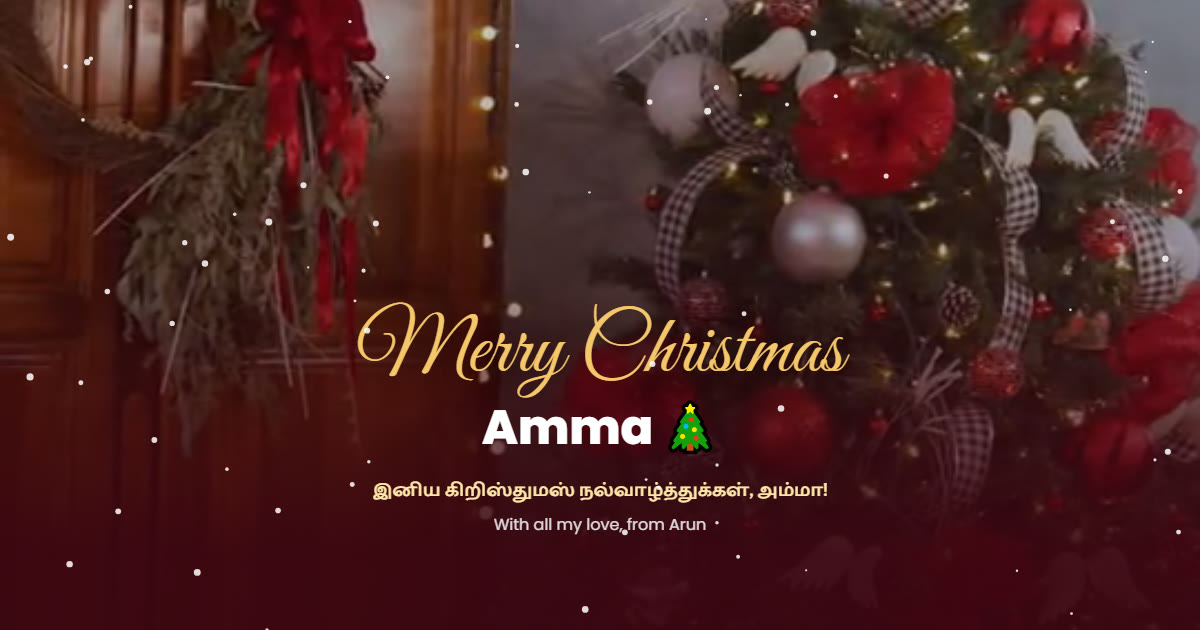
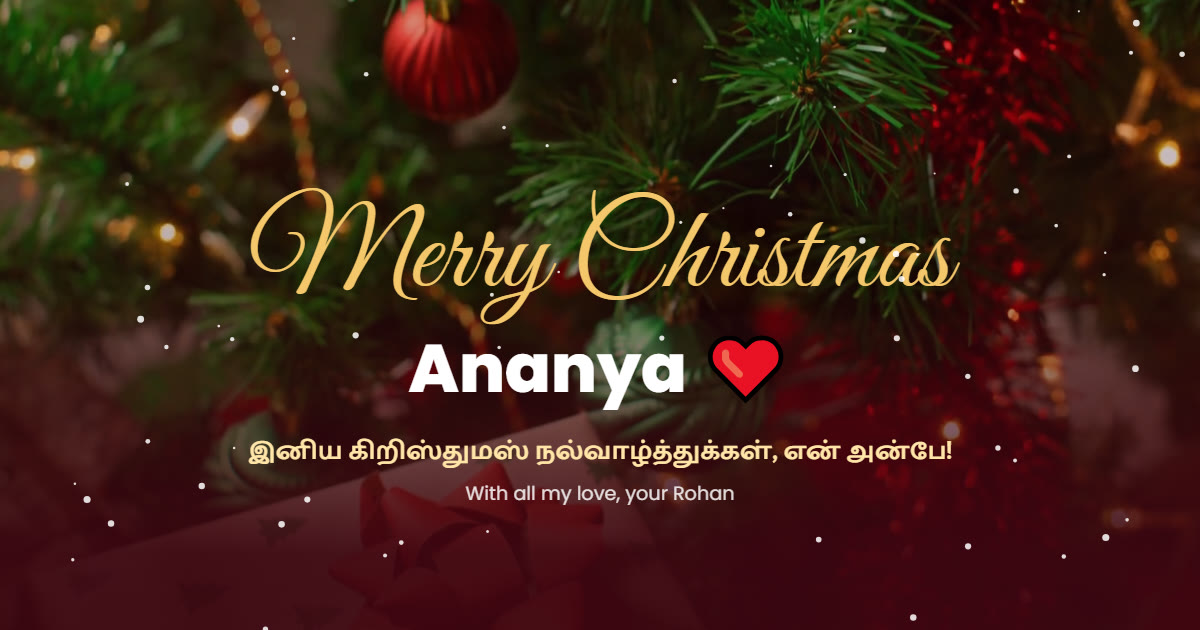
Couple wish with HD photos and a gallery
All 3 demos are now couple wishes: new HD couple photos (Mixkit free
licence) in the memories section, a new 6-photo HD gallery, updated
letters and text, and a fresh share image. Removed the old family
photos.

diff --git a/index.html b/index.html
@@ -3,13 +3,13 @@
 <head>
 <meta charset="utf-8">
 <meta name="viewport" content="width=device-width, initial-scale=1, viewport-fit=cover">
-<title>Merry Christmas, Amma 🎄</title>
-<meta name="description" content="A Christmas surprise for Amma, with love from Arun. Tap to open your gift.">
+<title>Merry Christmas, Ananya ❤</title>
+<meta name="description" content="A Christmas surprise for Ananya, with love from Rohan. Tap to open your gift.">
 <meta name="robots" content="noindex, nofollow">
 <meta name="theme-color" content="#7a0f24">
 <meta property="og:type" content="website">
-<meta property="og:title" content="Merry Christmas, Amma 🎄">
-<meta property="og:description" content="A Christmas surprise for Amma, with love from Arun. Tap to open your gift.">
+<meta property="og:title" content="Merry Christmas, Ananya ❤">
+<meta property="og:description" content="A Christmas surprise for Ananya, with love from Rohan. Tap to open your gift.">
 <meta property="og:url" content="https://raymelz75.github.io/christmas-wish/">
 <meta property="og:image" content="https://raymelz75.github.io/christmas-wish/images/og.jpg">
 <meta property="og:image:width" content="1200">
@@ -147,7 +147,7 @@ section{position:relative;padding:84px 0;overflow:hidden}
 <div id="intro" role="button" tabindex="0" aria-label="Open your Christmas gift">
   <div>
     <p class="small">A Christmas gift for</p>
-    <p class="name script">Amma</p>
+    <p class="name script">Ananya</p>
     <div class="gift" aria-hidden="true"><div class="box"></div><div class="lid"></div><div class="rib-v"></div><div class="bow"></div></div>
     <span class="tap">🎁 Tap the gift to open</span>
   </div>
@@ -158,31 +158,36 @@ section{position:relative;padding:84px 0;overflow:hidden}
   <div class="shade"></div>
   <div class="wrap">
     <h1 class="script">Merry Christmas</h1>
-    <p class="who">Amma 🎄</p>
-    <p class="ta">இனிய கிறிஸ்துமஸ் நல்வாழ்த்துக்கள், அம்மா!</p>
-    <p class="from">With all my love, from Arun</p>
+    <p class="who">Ananya ❤</p>
+    <p class="ta">இனிய கிறிஸ்துமஸ் நல்வாழ்த்துக்கள், என் அன்பே!</p>
+    <p class="from">With all my love, your Rohan</p>
   </div>
   <span class="hint">Scroll ↓</span>
 </section>
 <section id="letter"><div class="wrap">
   <h2 class="sec rv">A little letter for you</h2>
   <p class="sub rv">From my heart to yours</p>
-  <div class="letter" data-text="Dear Amma,&#10;&#10;Every Christmas, you made our small home the brightest place in the world. The star on the tree, the smell of your plum cake, and your midnight prayers for all of us.&#10;&#10;This year, I just want to say thank you. For every sacrifice you never talked about, and every hug when I needed it most.&#10;&#10;Merry Christmas, Amma. You are my biggest gift. 🎄&#10;&#10;With love,&#10;Arun"><p class="typed"></p><small>Tap to read it all</small></div>
+  <div class="letter" data-text="My dear Ananya,&#10;&#10;This Christmas, the best gift under my tree is you.&#10;&#10;Thank you for the warm hugs on cold nights, for laughing at my silly jokes, and for making every ordinary day feel like a celebration.&#10;&#10;I can't wait to make more memories with you: more cozy movie nights, more hot chocolate dates and more dancing in the living room.&#10;&#10;Merry Christmas, my love. 🎄❤&#10;&#10;Forever yours,&#10;Rohan"><p class="typed"></p><small>Tap to read it all</small></div>
 </div></section>
 <section id="memories"><div class="wrap">
   <h2 class="sec rv">Our Christmas memories</h2>
   <p class="sub rv">Tap a photo to see it bigger</p>
-  <div class="polaroids"><figure class="pol rv"><img src="images/amma-1.webp" alt="Amma hugging her son" width="640" height="800" loading="lazy"><figcaption>Your hugs 🤗</figcaption></figure><figure class="pol rv"><img src="images/amma-2.webp" alt="Amma smiling with a little child" width="640" height="800" loading="lazy"><figcaption>Always smiling 😊</figcaption></figure><figure class="pol rv"><img src="images/xmas-1.webp" alt="Christmas gift under the tree" width="640" height="800" loading="lazy"><figcaption>Gifts under our tree 🎁</figcaption></figure><figure class="pol rv"><img src="images/xmas-2.webp" alt="Presents beside the Christmas tree" width="640" height="800" loading="lazy"><figcaption>Christmas Eve ✨</figcaption></figure></div>
+  <div class="polaroids"><figure class="pol rv"><img src="images/love-1.webp" alt="Couple dancing by the Christmas tree" width="640" height="800" loading="lazy"><figcaption>Dancing by our tree 🎄</figcaption></figure><figure class="pol rv"><img src="images/love-2.webp" alt="Couple hugging by the window" width="640" height="800" loading="lazy"><figcaption>Your warm hugs 🤗</figcaption></figure><figure class="pol rv"><img src="images/love-3.webp" alt="Couple embracing under fairy lights" width="640" height="800" loading="lazy"><figcaption>Under the fairy lights ✨</figcaption></figure><figure class="pol rv"><img src="images/love-4.webp" alt="Couple dancing happily at home" width="640" height="800" loading="lazy"><figcaption>Silly dances at home 💃</figcaption></figure></div>
 </div></section>
-
+<section id="gallery"><div class="wrap">
+  <h2 class="sec rv">Christmas moments 📸</h2>
+  <p class="sub rv">A little more Christmas magic</p>
+  <div class="gallery"><figure class="rv"><img src="images/gallery-1.webp" data-full="images/gallery-1.webp" alt="Couple looking at their photo album" width="1600" height="900" loading="lazy"></figure><figure class="rv"><img src="images/gallery-2.webp" data-full="images/gallery-2.webp" alt="Couple decorating the Christmas tree" width="900" height="1600" loading="lazy"></figure><figure class="rv"><img src="images/gallery-3.webp" data-full="images/gallery-3.webp" alt="Boyfriend keeping his girlfriend warm on a cold night" width="1600" height="900" loading="lazy"></figure><figure class="rv"><img src="images/gallery-4.webp" data-full="images/gallery-4.webp" alt="Twinkling Christmas tree with gifts in the living room" width="1280" height="720" loading="lazy"></figure><figure class="rv"><img src="images/gallery-5.webp" data-full="images/gallery-5.webp" alt="A wrapped gift under the Christmas tree" width="1600" height="900" loading="lazy"></figure><figure class="rv"><img src="images/gallery-6.webp" data-full="images/gallery-6.webp" alt="Christmas gifts with twinkling lights" width="900" height="1600" loading="lazy"></figure></div>
+  <p class="credit">Photos: Mixkit (free licence)</p>
+</div></section>
 <section id="thanks"><div class="wrap">
-  <h2 class="sec rv">What I'm thankful for this Christmas</h2>
-  <p class="sub rv">All of it is you, Amma</p>
+  <h2 class="sec rv">Why Christmas is better with you</h2>
+  <p class="sub rv">Every reason is you, Ananya</p>
   <div class="tags">
-    <div class="tag rv"><b>🙏</b>Your prayers for me</div>
-    <div class="tag rv"><b>🎂</b>Your plum cake</div>
-    <div class="tag rv"><b>😅</b>Your patience with me</div>
-    <div class="tag rv"><b>❤</b>Your warm smile</div>
+    <div class="tag rv"><b>🤗</b>Your warm hugs</div>
+    <div class="tag rv"><b>☕</b>Our hot chocolate dates</div>
+    <div class="tag rv"><b>🎄</b>Decorating the tree together</div>
+    <div class="tag rv"><b>❤</b>Your beautiful smile</div>
   </div>
 </div></section>
 <section id="final"><div class="wrap">
@@ -201,13 +206,13 @@ section{position:relative;padding:84px 0;overflow:hidden}
   <circle class="fw-snow" cx="248.7" cy="-6" r="2" fill="#fff" style="animation-duration:7.3s;animation-delay:-2.9s"/><circle class="fw-snow" cx="316.4" cy="-6" r="2.4" fill="#fff" style="animation-duration:6s;animation-delay:-1.8s"/><circle class="fw-snow" cx="36.2" cy="-6" r="3" fill="#fff" style="animation-duration:7.5s;animation-delay:-2.1s"/><circle class="fw-snow" cx="272.7" cy="-6" r="2.1" fill="#fff" style="animation-duration:7.4s;animation-delay:-3.5s"/><circle class="fw-snow" cx="0.3" cy="-6" r="1.4" fill="#fff" style="animation-duration:4.1s;animation-delay:-4.5s"/><circle class="fw-snow" cx="106.4" cy="-6" r="3" fill="#fff" style="animation-duration:5.3s;animation-delay:-5.1s"/><circle class="fw-snow" cx="356.3" cy="-6" r="2.4" fill="#fff" style="animation-duration:7s;animation-delay:-1.4s"/><circle class="fw-snow" cx="235.3" cy="-6" r="2.4" fill="#fff" style="animation-duration:5s;animation-delay:-2.1s"/><circle class="fw-snow" cx="179" cy="-6" r="2.6" fill="#fff" style="animation-duration:5.8s;animation-delay:-2.4s"/><circle class="fw-snow" cx="176.8" cy="-6" r="2.4" fill="#fff" style="animation-duration:4.5s;animation-delay:-5s"/><circle class="fw-snow" cx="293.9" cy="-6" r="2.4" fill="#fff" style="animation-duration:6.2s;animation-delay:-1.7s"/><circle class="fw-snow" cx="278.4" cy="-6" r="2.1" fill="#fff" style="animation-duration:4.4s;animation-delay:-4.6s"/><circle class="fw-snow" cx="139.1" cy="-6" r="1.8" fill="#fff" style="animation-duration:6s;animation-delay:-7.4s"/><circle class="fw-snow" cx="141.8" cy="-6" r="1.7" fill="#fff" style="animation-duration:7.4s;animation-delay:-6.7s"/><circle class="fw-snow" cx="261.5" cy="-6" r="1.9" fill="#fff" style="animation-duration:5.1s;animation-delay:-1.9s"/><circle class="fw-snow" cx="112.4" cy="-6" r="3.2" fill="#fff" style="animation-duration:6.8s;animation-delay:-4.5s"/><circle class="fw-snow" cx="152" cy="-6" r="2.4" fill="#fff" style="animation-duration:5.8s;animation-delay:-5.9s"/><circle class="fw-snow" cx="5" cy="-6" r="3" fill="#fff" style="animation-duration:7.1s;animation-delay:-0.1s"/><circle class="fw-snow" cx="282.1" cy="-6" r="2.4" fill="#fff" style="animation-duration:6.5s;animation-delay:-0.1s"/><circle class="fw-snow" cx="304.1" cy="-6" r="3.4" fill="#fff" style="animation-duration:7.6s;animation-delay:-2s"/><circle class="fw-snow" cx="60.5" cy="-6" r="2.1" fill="#fff" style="animation-duration:5.9s;animation-delay:-8s"/><circle class="fw-snow" cx="270.5" cy="-6" r="2.3" fill="#fff" style="animation-duration:4.7s;animation-delay:-4.5s"/>
 </svg></div>
   <h2 class="script rv">Merry Christmas</h2>
-  <p class="big rv">and a Happy New Year, Amma! ❤</p>
-  <button class="big-btn rv" id="hug">Send Arun a hug back 🤗</button>
+  <p class="big rv">and a Happy New Year, my love! ❤</p>
+  <button class="big-btn rv" id="hug">Send Rohan a kiss back 😘</button>
   <p class="sent" id="sent" aria-live="polite"></p>
-  <a class="wa" href="https://wa.me/?text=Merry%20Christmas%2C%20Arun!%20%F0%9F%8E%84%20Thank%20you%20for%20my%20beautiful%20wish%20%E2%9D%A4%EF%B8%8F" target="_blank" rel="noopener">Reply on WhatsApp →</a>
+  <a class="wa" href="https://wa.me/?text=Merry%20Christmas%2C%20Rohan!%20%F0%9F%8E%84%20I%20loved%20my%20surprise%20%E2%9D%A4%EF%B8%8F" target="_blank" rel="noopener">Reply on WhatsApp →</a>
 </div></section>
-<p class="foot">Made with ❤ by Arun, for Amma.<br>A demo wish website by <a href="https://raymelz.com/new-year-christmas-pongal-wishes/?utm_source=demo&utm_medium=wish&utm_campaign=festival&utm_content=christmas" target="_blank" rel="noopener">Raymelz</a></p>
-<a class="demo-bar" href="https://raymelz.com/new-year-christmas-pongal-wishes/?utm_source=demo&utm_medium=wish&utm_campaign=festival&utm_content=christmas" target="_blank" rel="noopener">✨ Demo by <b>Raymelz</b><span class="long"> · Make one for your Amma</span>, from ₹199 →</a>
+<p class="foot">Made with ❤ by Rohan, for Ananya.<br>A demo wish website by <a href="https://raymelz.com/new-year-christmas-pongal-wishes/?utm_source=demo&utm_medium=wish&utm_campaign=festival&utm_content=christmas" target="_blank" rel="noopener">Raymelz</a></p>
+<a class="demo-bar" href="https://raymelz.com/new-year-christmas-pongal-wishes/?utm_source=demo&utm_medium=wish&utm_campaign=festival&utm_content=christmas" target="_blank" rel="noopener">✨ Demo by <b>Raymelz</b><span class="long"> · Surprise your love</span>, from ₹199 →</a>
 <audio id="song" src="music/song.mp3" preload="none" loop></audio>
 <div class="lb" role="dialog" aria-label="Photo"><img alt=""></div>
 <script>
@@ -247,6 +252,6 @@ var intro = document.getElementById("intro");
 function openGift() { if (intro.classList.contains("open")) return; intro.classList.add("open"); playMusic(); rain(["✨", "⭐", "❄"], 26, 4000); setTimeout(function () { intro.classList.add("gone"); }, 900); }
 intro.addEventListener("click", openGift);
 intro.addEventListener("keydown", function (e) { if (e.key === "Enter" || e.key === " ") openGift(); });
-document.getElementById("hug").addEventListener("click", function () { rain(["❤", "🤗", "💖", "🎄"], 34); document.getElementById("sent").textContent = "Hug sent to Arun! ❤"; });</script>
+document.getElementById("hug").addEventListener("click", function () { rain(["❤", "😘", "💖", "🎄"], 34); document.getElementById("sent").textContent = "Kiss sent to Rohan! 😘"; });</script>
 </body>
 </html>
